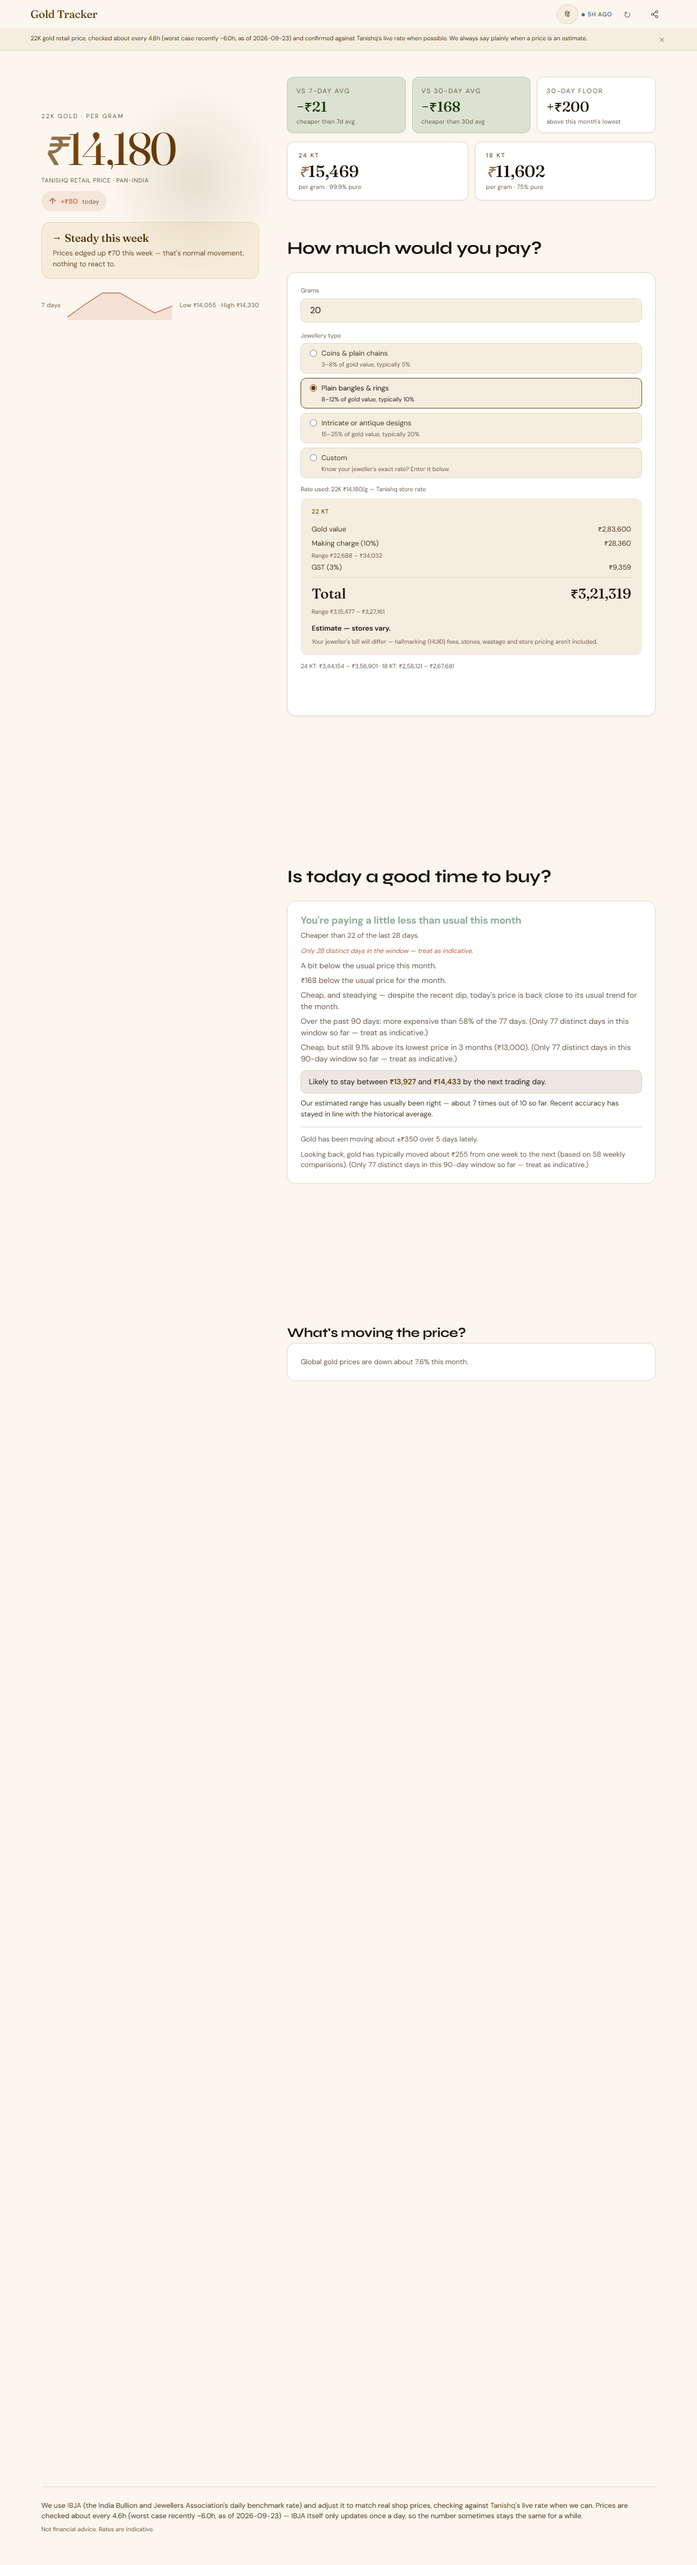
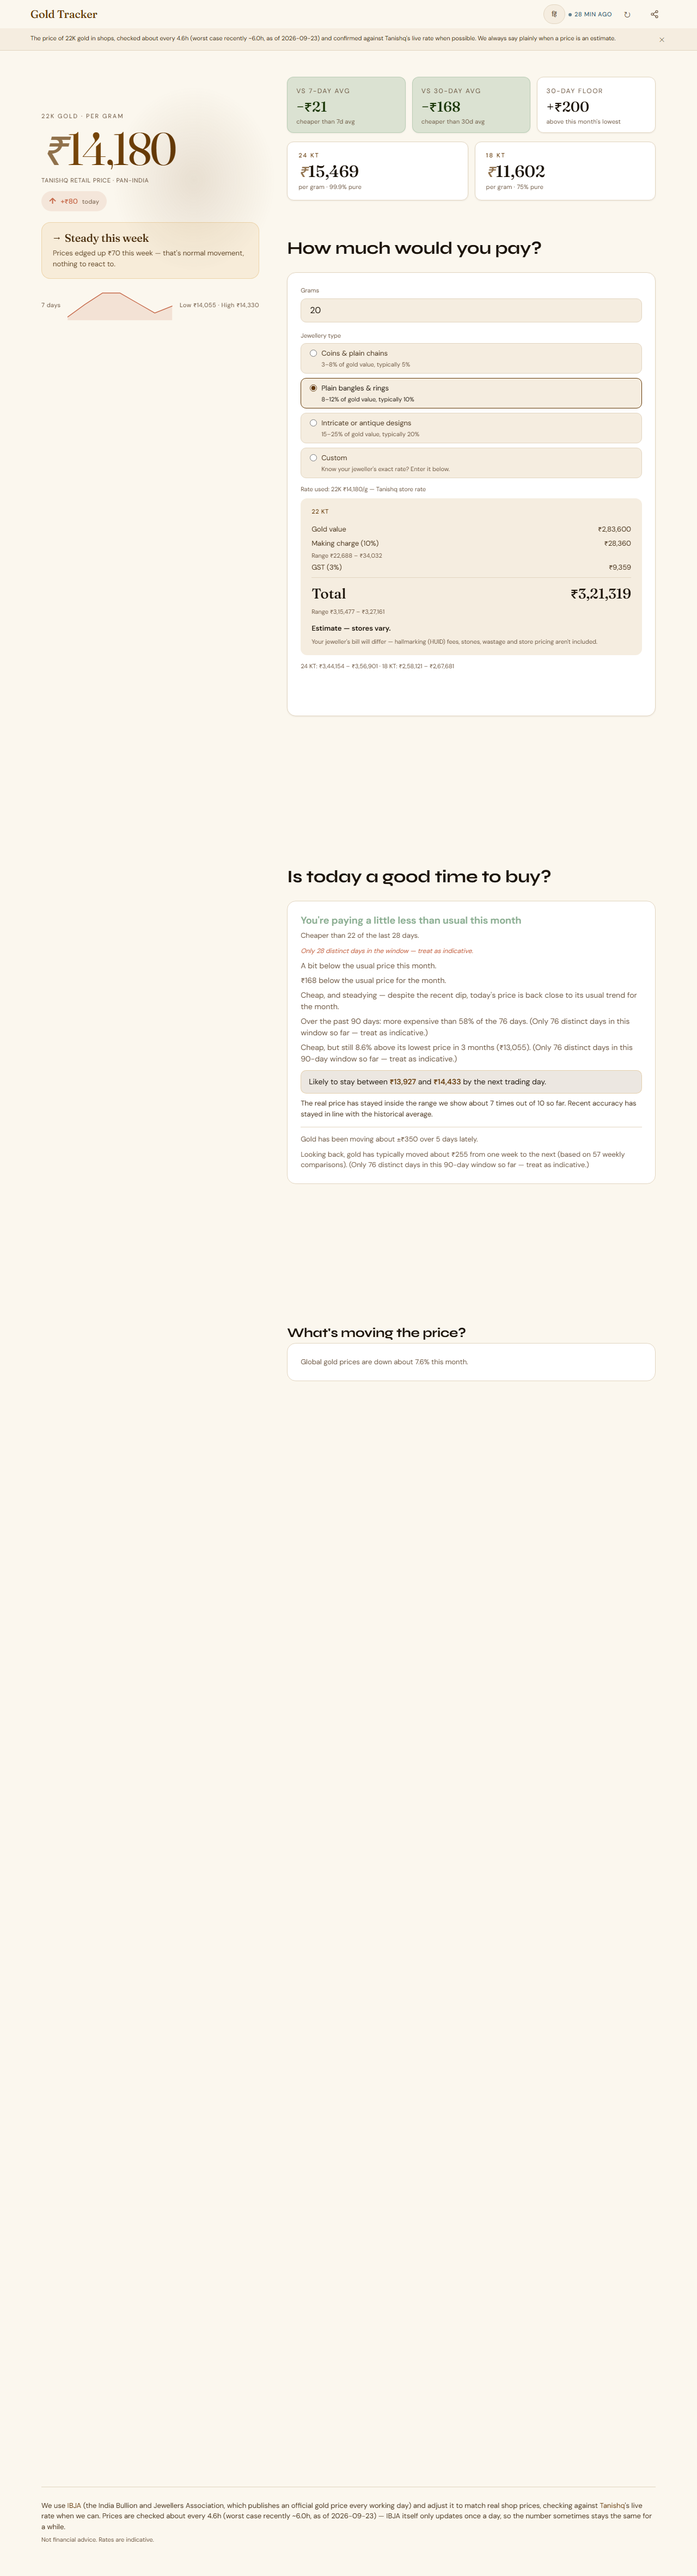
docs(audit): record U4 LLM-consensus readability pass + re-capture screenshots
Adds a "U4 readability check (LLM-consensus, not user testing)"
section to docs/PLAIN_LANGUAGE_AUDIT.md: method (gemma2:9b +
qwen3:30b-a3b via Ollama, blind, temp=0, seed=42, calibrated against
a reference sentence), the first-pass results as relayed (flag
agreement 1.0, both error messages 1/5, 6 consensus-hard-word
strings, calibrationConfidenceAppend's "estimate" kept deliberately),
an explicit note on what was and wasn't included in the relayed data
(this session did not run the rating itself), and a "Second pass:
<to be filled>" placeholder. Updates the rewritten-string table for
the 7 keys 01202f86 changed. Re-captures the four after-screenshots
whose visible text changed in that commit.

diff --git a/docs/PLAIN_LANGUAGE_AUDIT.md b/docs/PLAIN_LANGUAGE_AUDIT.md
@@ -58,20 +58,22 @@ HI strings flagged for native review.**
 | File:line (original) | Original text | Flagged term(s) | Replacement |
 |---|---|---|---|
 | `index.html:55,59,65` (meta/og/twitter description) | "22K gold rate — an IBJA-calibrated estimate, confirmed against live Tanishq retail when reachable..." | calibrated | "22K gold rate — closely matched to real shop prices, confirmed against live Tanishq retail when reachable..." |
-| `index.html:525-528` (static pre-hydration footer fallback) | "We use IBJA's official gold benchmark and calibrate it to match real shop prices..." | calibrate; IBJA unexplained | "We use IBJA (the India Bullion and Jewellers Association's daily benchmark rate) and adjust it to match real shop prices..." |
+| `index.html:525-528` (static pre-hydration footer fallback) | "We use IBJA's official gold benchmark and calibrate it to match real shop prices..." | calibrate; IBJA unexplained | "We use IBJA (the India Bullion and Jewellers Association, which publishes an official gold price every working day) and adjust it to match real shop prices..." — U4 pass (01202f86): "daily benchmark rate" itself read as jargon; reworded to say plainly what IBJA actually does |
 | `i18n.js` `pageDescription` (EN) | same as index.html meta description | calibrated | same fix, kept in sync |
-| `i18n.js` `footerBody` (EN) | "...calibrate it to match real shop prices..." + unexplained IBJA | calibrate; IBJA unexplained | "...adjust it to match real shop prices..." + IBJA explained inline (the one canonical explanation the rest of the page relies on) |
-| `i18n.js` `firstVisitText` (EN+HI) | "...(worst case recently ~Xh; n=41, as of DATE)..." | n= | "...(worst case recently ~Xh, as of DATE)..." — n= clause dropped, hours/as-of kept |
-| `i18n.js` `footerBody` (EN+HI) | "...(worst case recently ~Xh; n=41, as of DATE)" | n= | same fix as `firstVisitText` |
+| `i18n.js` `footerBody` (EN) | "...calibrate it to match real shop prices..." + unexplained IBJA | calibrate; IBJA unexplained | "...adjust it to match real shop prices..." + "IBJA (the India Bullion and Jewellers Association, which publishes an official gold price every working day)" — U4 pass (01202f86) reworded the IBJA gloss itself (see index.html row above, same fix) |
+| `i18n.js` `firstVisitText` (EN+HI) | "22K gold retail price, checked about every Xh (worst case recently ~Xh; n=41, as of DATE)..." | n=; U4 pass: "retail price" (both models) | "The price of 22K gold in shops, checked about every Xh (worst case recently ~Xh, as of DATE)..." — n= dropped (2026-09-23 first pass), "retail price" → "price ... in shops" (U4 pass, 01202f86) |
+| `i18n.js` `footerBody` (EN+HI) | "...(worst case recently ~Xh; n=41, as of DATE)" | n= | same fix as `firstVisitText` (n= dropped) |
 | `i18n.js` `volNoteElevated` (EN) | "Gold has been more volatile than usual lately — about ±₹X over 5 days." | volatility/volatile | "Gold has been swinging more than usual lately — about ±₹X over 5 days." |
 | `i18n.js` `volNoteCalm` (EN) | "Gold has been calmer than usual lately..." | volatility/volatile (key concept, adjacent to the elevated/calm pair) | "Gold has been steadier than usual lately..." |
-| `i18n.js` `reliabilityCoverage` (EN) | "Our estimated range has been right {pct}% of the time (checked {n} times)." | matches the `"coverage X% (n=Y)"` pattern | "Our estimated range has been right about N times out of 10 so far." (floored, never overstates — see `fractionOutOf10Phrase`) |
-| `i18n.js` `calibrationConfidenceAppend` (EN) | "...about {coverage}% of the time so far (n={n} weeks measured)." | n= | "...about N times out of 10 so far." (n dropped; exact % and n preserved on how-we-know.html's new "Band accuracy" section) |
-| `i18n.js` `errCouldntLoadMethodology` (EN) | "Couldn't load model details — check your connection and reload." | model | "Couldn't load this section — check your connection and reload." |
+| `i18n.js` `reliabilityCoverage` (EN) | "Our estimated range has been right {pct}% of the time (checked {n} times)." | matches the `"coverage X% (n=Y)"` pattern; U4 pass: "estimated range" (both models) | "The real price has stayed inside the range we show about N times out of 10 so far." — floored fraction (first pass), "estimated range" → "the range we show" (U4 pass, 01202f86) |
+| `i18n.js` `calibrationConfidenceAppend` (EN) | "...about {coverage}% of the time so far (n={n} weeks measured)." | n= | "...about N times out of 10 so far." (n dropped; exact % and n preserved on how-we-know.html's new "Band accuracy" section). U4 pass: "estimate" was flagged by both models here too, but kept deliberately — see the U4 section below for why |
+| `i18n.js` `errCouldntLoadMethodology` (EN) | "Couldn't load model details — check your connection and reload." | model; U4 pass: scored 1/5 by both models even after the U1 fix | "We couldn't show this part right now. Please check your internet and refresh the page." (U4 pass, 01202f86) |
 | `i18n.js` `errCouldntLoadMethodology` (HI) | "मॉडल की जानकारी लोड नहीं हो पाई..." | model (मॉडल, loanword) + EN meaning changed | Removed, flagged HI-needs-native-review (falls back to reworded English) |
 | `i18n.js` `accSummaryDirectionOff` (EN) | "We don't try to guess whether prices will rise or fall next — nothing we've tested beats simply assuming they'll stay about the same, so that's what we go with." | (honesty fix, not a banned term) | "We don't try to guess whether prices will rise or fall next — none of the methods we've tested could do it reliably, so we don't show a guess." — the original wording implied "assume no change" was itself a tested, winning method; the real baseline the direction gate compares against is "always guess up" (ADR 019), not "assume no change" (that's the separate price-range method). Same correction class as the two rows below: don't let a rounding/summarizing rewrite assert something the underlying data doesn't support. |
 | `i18n.js` 37× `meth*` keys (EN+HI) | full methodology breakdown (verdict rule, next-day-range p-value, direction-signal internals, drift stats) | model, p-value, MAE, coverage, percentile-adjacent framing | Relocated verbatim to `how-we-know-strings.js` (its own exempt catalogue) — same wording, same numbers, just off the main page. Main page's accordion body now renders 2-3 short plain sentences (`accSummaryIntro`/`accSummaryDirectionOff`, reusing the already-plain `reliabilityDriftOnTrack/Watch/Retrain`) plus a link |
-| `README.md` "How fresh the data is" bullet | "...typical gap between updates was 4.6 (n=41, as of DATE) hours." | n= | "...typical gap between updates was 4.6 (as of DATE) hours." — `\|n=n` modifier dropped from the METRIC marker |
+| `how-we-know-strings.js` `hwkIntro` (EN) | "This page has the full technical detail behind the plain-language summary on the main page — the same numbers, unrounded, plus how we test them." | U4 pass: "technical detail", "plain-language summary", "unrounded" (both models) | "This page shows the full detail behind the short summary on the main page — the exact numbers, and how we check them." (U4 pass, 01202f86) |
+| `how-we-know-strings.js` `hwkError` (EN) | "Couldn't load this page's data. Check your connection and reload." | U4 pass: scored 1/5 by both models (same class as `errCouldntLoadMethodology`) | "We couldn't show these numbers right now. Please check your internet and refresh the page." (U4 pass, 01202f86) |
+| `README.md` "How fresh the data is" bullet | "...the typical gap between updates was 4.6 (n=41, as of DATE) hours." | n=; U4 pass: "typical gap", "updates" (both models) | "...a new price usually came in every 4.6 (as of DATE) hours." — `\|n=n` modifier dropped (first pass), "typical gap between updates was" → "a new price usually came in every" (U4 pass, 01202f86) |
 | `README.md` "A likely range, not just one number" bullet | "...it has actually contained the real rate 70.9% (n=86, 95% CI [60.6%, 79.5%], as of DATE) of the time..." | n=, CI | "...it has actually landed inside the range about 7 times out of 10 so far..." via the new `frac10` METRIC format, plus a link to How we know for the exact numbers |
 
 ## "HI needs native review" — not machine-translated
@@ -190,3 +192,89 @@ jargon, but still dishonest:
 
 Screenshots `06-accordion-opened-375-after.png`, `08-model-signal-375-after.png`,
 and `10-banner-mocked-375-after.png` were re-captured after this fix.
+
+## U4 readability check (LLM-consensus, not user testing)
+
+**Provenance note:** this section documents a rating pass run and relayed by
+GG/the orchestrating session, not reproduced independently by this executor
+session (no Ollama access in this environment, and no raw ratings artifact
+— e.g. a per-string JSON/log — was committed to the repo alongside
+`01202f86` for this session to inspect directly). The method and the
+specific findings below are recorded exactly as reported. Anything not
+explicitly reported (the individual numeric score for each of the 10
+strings that were NOT flagged, for instance) is left unstated here rather
+than invented — see the "What's not in this record" note at the end of
+this section.
+
+**Method:** every rewritten user-facing string from the U1/U2 pass was
+rated blind (the model sees only the sentence, not which key it came from
+or what it replaced) by two independently-run local model families via
+Ollama — `gemma2:9b` and `qwen3:30b-a3b` — at `temperature=0, seed=42` for
+determinism. A string is flagged if either model scores it ≤2/5 or labels
+it "misleading", plus a separate signal: a word is logged as a **consensus
+hard word** when both models name the identical word as hard-to-understand,
+independent of the pass/fail score. The rating scale itself was calibrated
+first against a GG-authored reference sentence (expected to pass) before
+being run on the real strings, so a flag means the string reads harder than
+that reference bar, not just "the model didn't love the wording."
+
+**This is a readability proxy, not user testing** — two LLMs agreeing a
+sentence is easy to read is evidence, not proof that an actual gold buyer
+finds it so. Recorded as a check against the same two "cheap
+resource-order" model families used elsewhere in this repo (rule: prefer
+free/open models before paid ones), not as a replacement for real user
+feedback.
+
+### First pass — results as reported
+
+16 rewritten strings rated. Flag agreement between the two models: 1.0
+(Cohen's κ = 1.0 — perfect agreement on which strings to flag, this pass).
+
+Reported outcomes, by string:
+
+| Key | Result | Consensus hard word(s) | Action |
+|---|---|---|---|
+| `errCouldntLoadMethodology` (EN) | scored 1/5 by both models | — | Rewritten (01202f86) |
+| `hwkError` (EN) | scored 1/5 by both models | — | Rewritten (01202f86) |
+| `footerBody` (EN) | flagged | IBJA, "benchmark rate" | Rewritten (01202f86) |
+| `firstVisitText` (EN) | flagged | "retail price" | Rewritten (01202f86) |
+| `reliabilityCoverage` (EN) | flagged | "estimated range" | Rewritten (01202f86) |
+| `calibrationConfidenceAppend` (EN) | flagged | "estimate" | **Kept as-is** — both models also flag "estimate" in GG's own reference sentence (the calibration baseline for the whole scale), so this flag reads as the scale's floor, not a real readability defect; "estimate" is also the one honest word for what the number actually is (not a guarantee) |
+| README "How fresh the data is" bullet | flagged | "typical gap", "updates" | Rewritten (01202f86) |
+| `hwkIntro` (EN) | flagged | "technical detail", "plain-language summary", "unrounded" | Rewritten (01202f86) |
+| (remaining 8 of 16 strings) | not flagged | — | No change |
+
+**What's not in this record:** the individual 1-5 score for each of the 8
+non-flagged strings, and the exact score (vs. just "≤2 or flagged") for the
+6 hard-word strings above, were not included in what was relayed to this
+session — only the flag/no-flag outcome and, for the two error messages,
+the specific "1/5" figure. The identities of the 8 non-flagged strings
+were also not enumerated. If the full 16-row table (every string, both
+raw scores, pass/fail) is needed for the record, it should be pulled from
+the rating harness's own output artifact, not reconstructed here from a
+partial summary.
+
+### What was changed and why
+
+`01202f86` rewrote the 7 strings the first pass flagged (6 consensus-hard-word
+strings plus README's freshness bullet, which is the same string as one of
+the 6 — see the updated "Detailed findings and fixes" table above for
+old/new text per key). `calibrationConfidenceAppend`'s "estimate" was left
+untouched — see the table entry above for why keeping a flagged word can be
+the correct call rather than automatically rewriting away every flag.
+
+### Second pass
+
+<to be filled>
+
+## Follow-up correction 2 (2026-09-23) — screenshots and this audit table
+
+`06-accordion-opened-375-after.png`/`08-model-signal-375-after.png` were
+already current (their underlying keys, `accSummaryDirectionOff`/
+`reliabilityCoverage`, were touched by the earlier "usually" fix, not by
+01202f86's wording, except `reliabilityCoverage`'s "estimated range" →
+"the range we show" change, which DOES affect `08-model-signal-375-after.png`
+again). `02-main-page-375-after.png`, `04-main-page-1280-after.png`,
+`08-model-signal-375-after.png`, and `11-how-we-know-375.png` were
+re-captured after `01202f86` (first-visit panel, footer, model-signal card,
+and how-we-know.html's intro all changed visible text).
